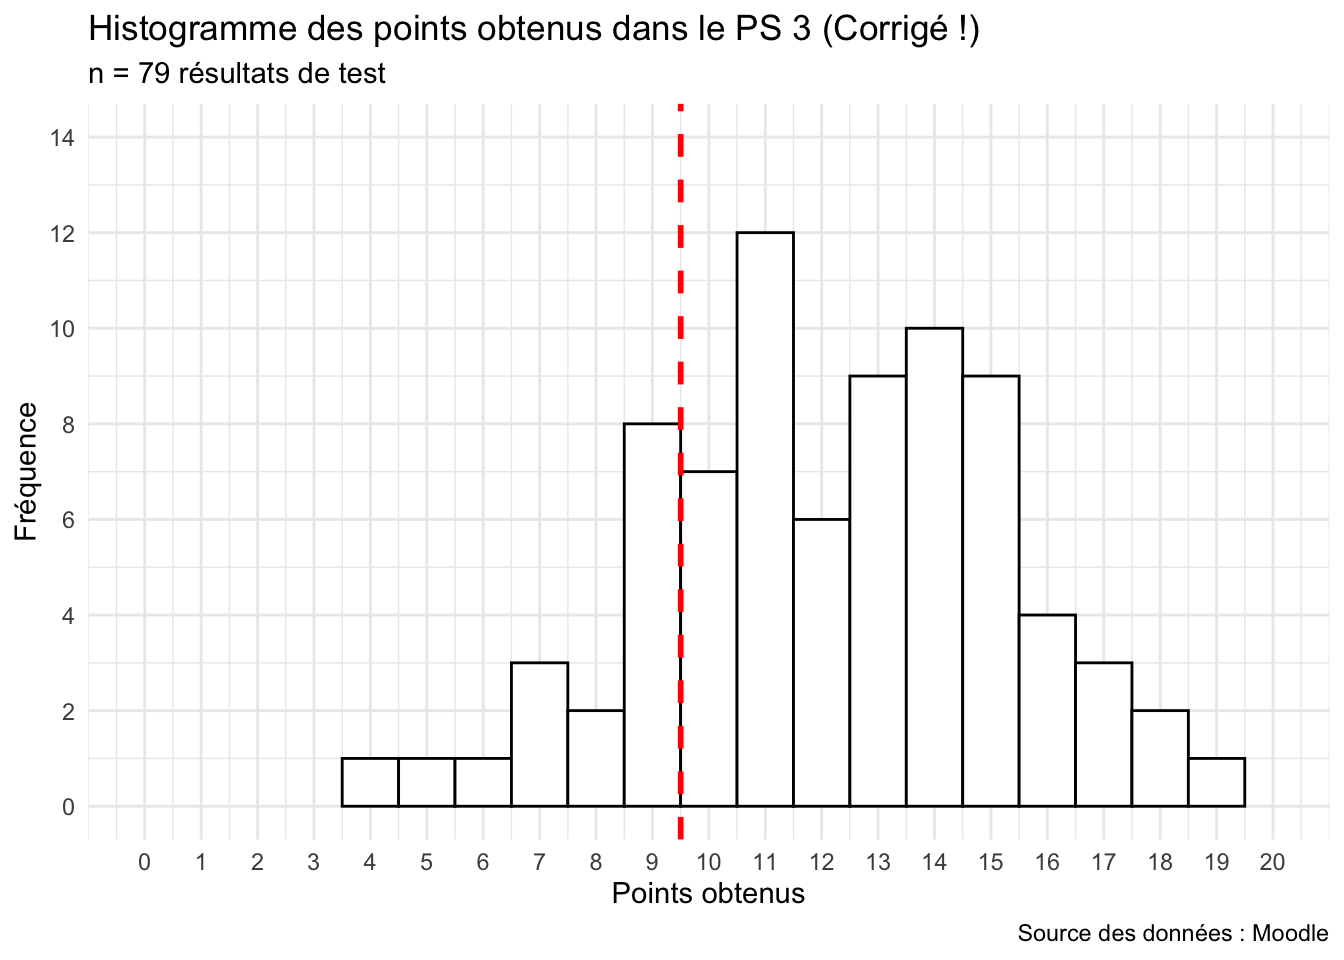
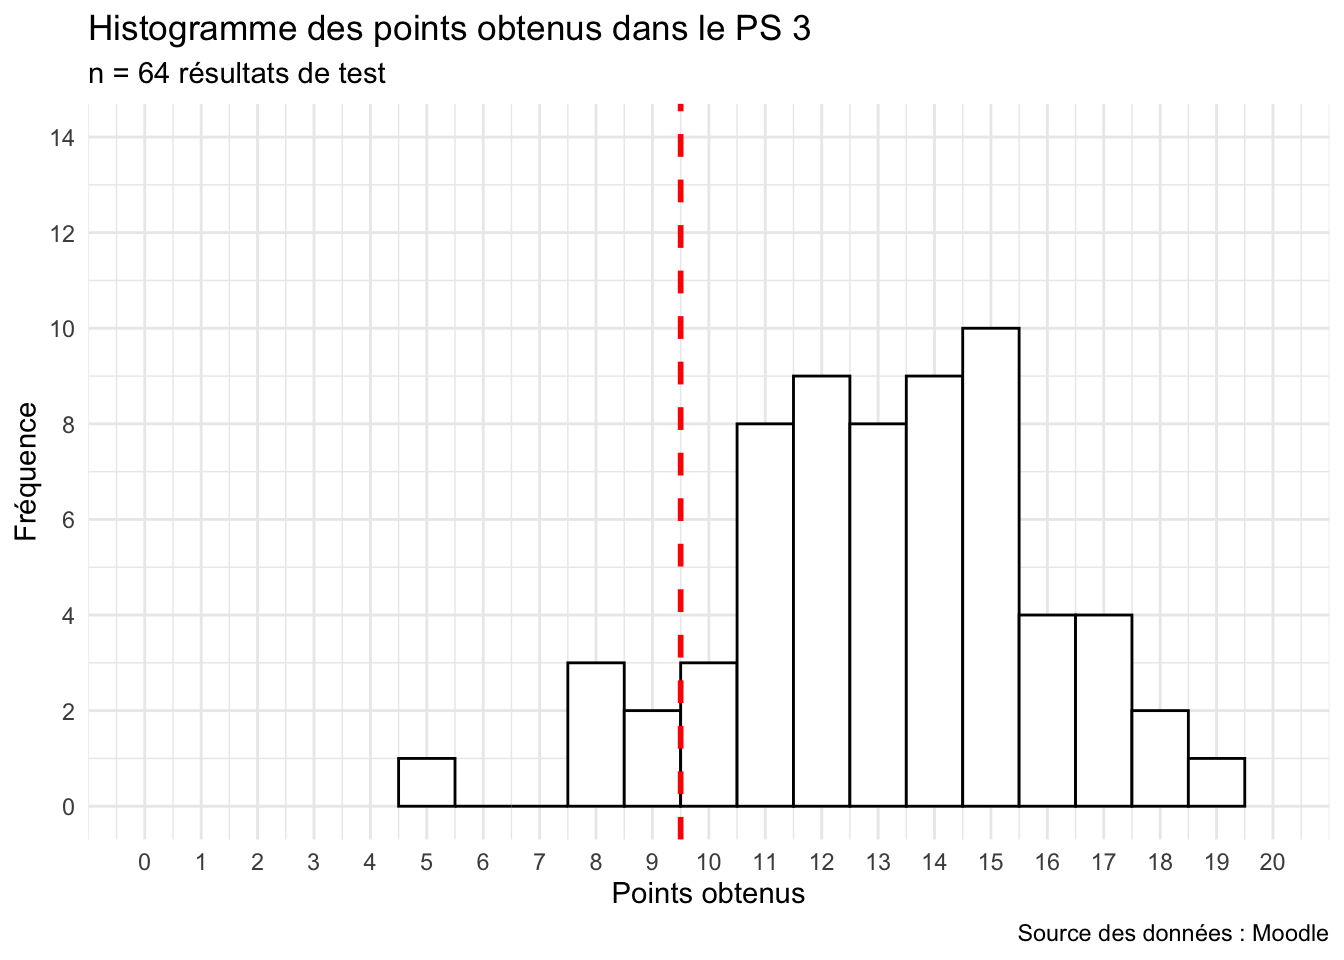
update 27 avril

diff --git a/index.html b/index.html
@@ -1441,9 +1441,9 @@ Astuce
 <table class="table">
 <caption>Les couches d’un graphique ggplot</caption>
 <colgroup>
-<col style="width: 31%">
-<col style="width: 41%">
-<col style="width: 26%">
+<col style="width: 33%">
+<col style="width: 33%">
+<col style="width: 33%">
 </colgroup>
 <thead>
 <tr class="header">
@@ -3387,11 +3387,11 @@ Solution
 <section id="session-9-problem-set-3" class="level1">
 <h1>Session 9 (Problem Set 3)</h1>
 <p>Les résultats du <strong>Problem Set 3</strong> (bonnes réponses, échelle des notes) sont accéssibles sur la page Moodle de l’exercice.</p>
-<p>Voici l’histogramme des points obtenus par n = 79 étudiant-e-s qui ont participé au Problem Set 3.</p>
+<p>Voici l’histogramme des points obtenus par n = 64 étudiant-e-s qui ont participé au Problem Set 3 le 16 et 17 avril 2025 dans trois groupes (A, B, C).</p>
 <ul>
 <li><p>Le nombre maximal de points était de 20, il fallait 10 pour passer le test.</p></li>
-<li><p>La moyenne des points obtenus était de 12.15 (note = 4.5).</p></li>
-<li><p>63 étudiant-e-s (79.7%) ont réussi Problem Set 3.</p></li>
+<li><p>La moyenne des points obtenus était de 13.1 (note = 4.5).</p></li>
+<li><p>58 étudiant-e-s (90.6%) ont réussi Problem Set 3.</p></li>
 </ul>
 <div class="cell">
 <div class="cell-output-display">
